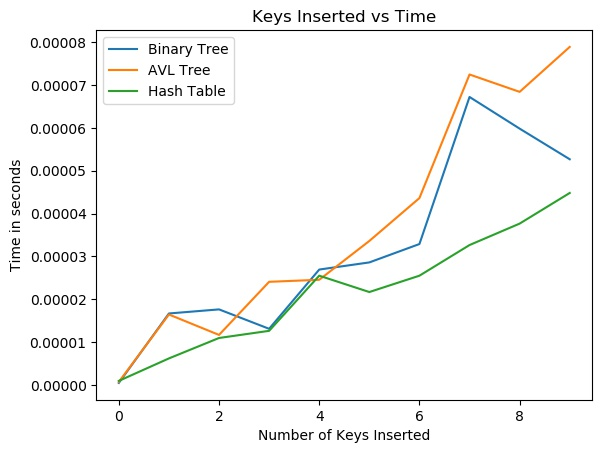
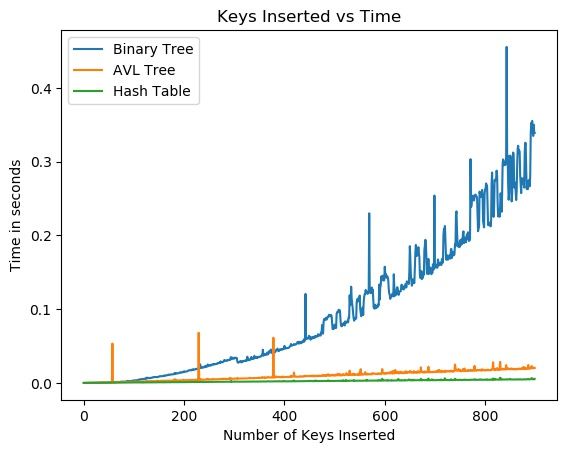
added more to readme and fixed graphs

diff --git a/README.md b/README.md
@@ -14,10 +14,18 @@ I used the python time module to do the benchmarking and decided to make graphs 
 ![](Search_rand.jpg)
 ![](Search_Not_There_rand.jpg)
 
+(1) It appears that the Binary Tree takes the longest time to insert keys that are in the tree by far.  In fact the time it takes for the binary tree appears to increase faster than linearly for the number of keys inserted.  The AVL tree does the second best job and the Hash table does the best job.  The time it takes to insert pairs increases across all methods for an increased number of keys.
+(2) It appears that the Binary Tree takes the longest time to search for keys that are in the tree by far.  The Hash table appears to perform second best with the AVL tree being the fastest.  The time it takes to search increases across all methods for an increased number of keys.
+(3) It appears that the Binary Tree takes the longest time to search for keys that are NOT in the tree by far.  The Binary Tree time cost is orders of magnitude above the other methods.  The time it takes to search increases across all methods for an increased number of keys.
+
 ### Sorted Keys
 ![](Insert_Time_sorted.jpg)
 ![](Search_sorted.jpg)
 ![](Search_Not_There_sorted.jpg)
+
+(1) This first result is very similar to the random keys result.  It appears that the Binary Tree takes the longest time to insert keys that are in the tree by far.  In fact the time it takes for the binary tree appears to increase faster than linearly for the number of keys inserted.  The AVL tree does the second best job and the Hash table does the best job.  The time it takes to insert pairs increases across all methods for an increased number of keys.
+(2) This second is fairly different than the random keys.  The difference between the searching for keys is much smaller than it was above.  The Binary Tree still appears to be the worst, but not by as much.  The second best is the Hash Table and then the AVL tree is the fastest.  The time it takes to search increases across all methods for an increased number of keys.
+(3) This result is similar to the describtion of (2) above. The difference between the searching for keys NOT in the data is much smaller than it was for the random keys.  The Binary Tree still appears to be the worst, but not by as much. The Hast Table does the second best job and the AVL Tree does the best job.  The time it takes to search for keys increases across all methods for an increased number of keys.
 
 ## Git Submodules
 This code relies on the avl_tree and hash-tables-rachelbowyer submodules.
